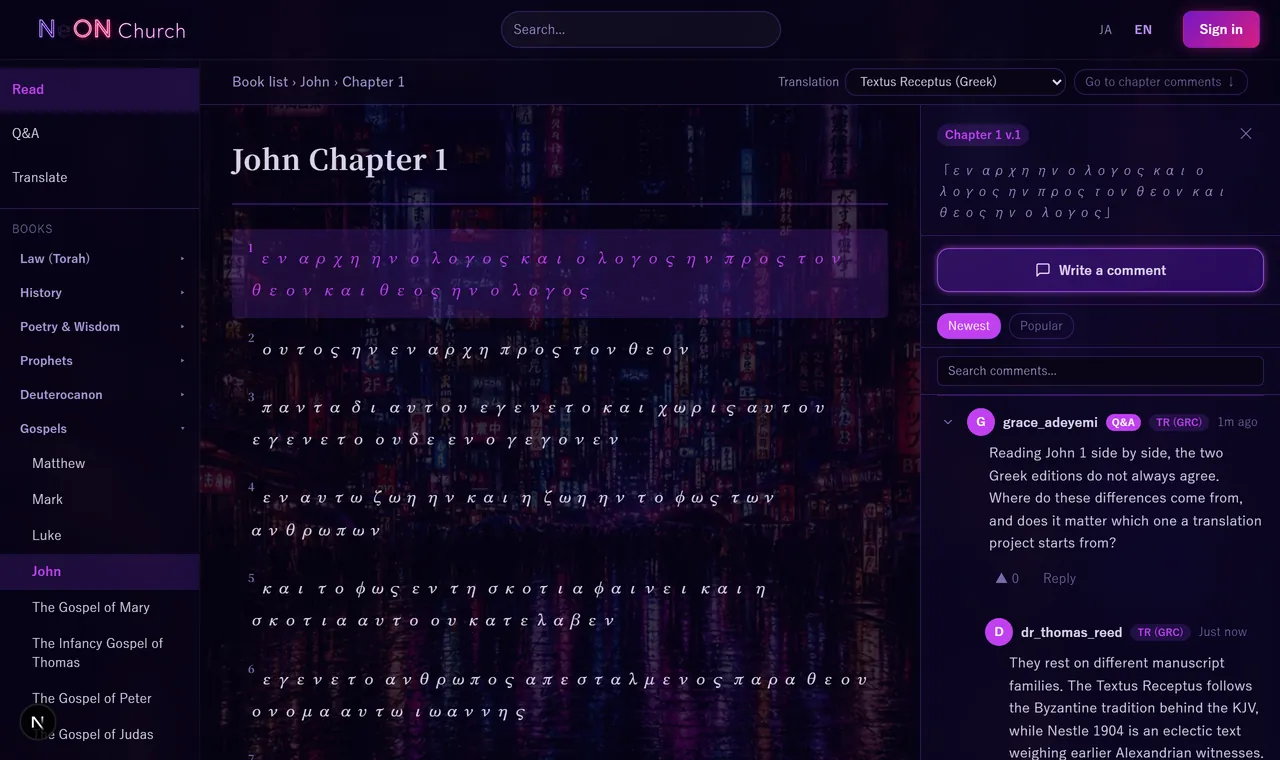
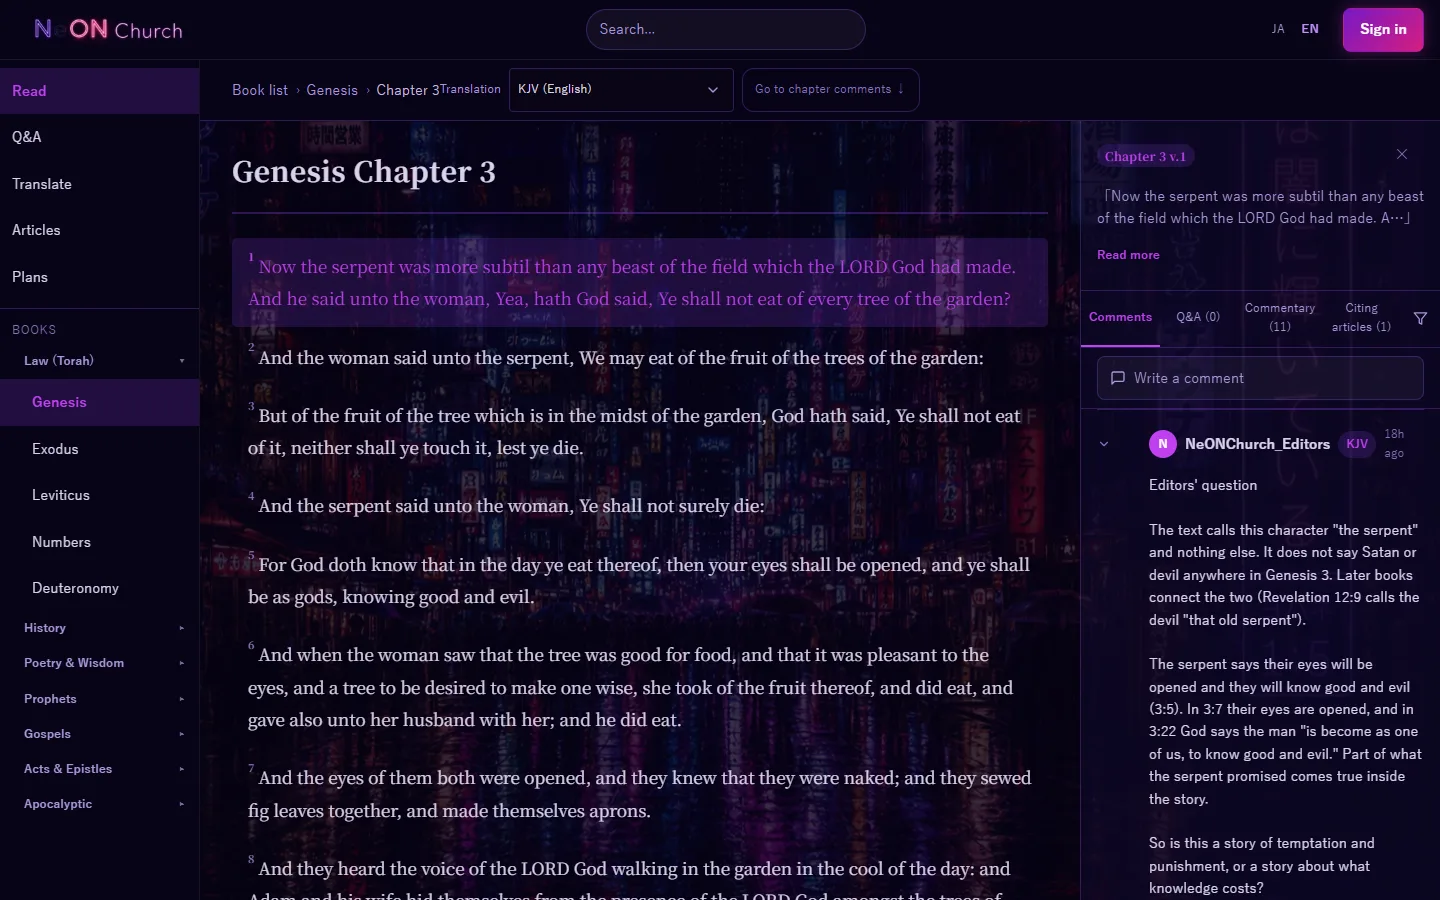
docs: README を公開版の内容に更新し、英語版のスクリーンショットに差し替える
- 収録書・機能・運営の投稿(AI 支援の開示)・問い合わせ先を書き足す
- 本番の英語画面から 6 枚(表紙・読書・記事・プラン・Q&A・翻訳)を撮り直す
- 運用手順と License の日本語を英語にそろえる

Changed region(s): [[0.0, 0.0, 1.0, 1.0], [0.4062, 0.0, 0.5938, 0.0908], [0.5312, 0.5145, 0.5938, 0.5447]]

diff --git a/README.md b/README.md
@@ -21,39 +21,83 @@
 
 ---
 
-NeON Church reimagines Christianity not as a single fixed authority, but as an open field where multiple texts, interpretations, histories, and fragments connect. It draws on Kanzo Uchimura's Non-Church Christianity and a "database-like" reading of faith after postmodernism, shedding light on texts placed outside the canon and interpretations long marginalized. Every text is treated as equal — no second-class scriptures. Here you can read, annotate, discuss, and collaboratively translate biblical texts (canon, Apocrypha, and Pseudepigrapha) together.
+> **Public beta.** The site is open to everyone and still changing. Feedback is very welcome — see [Contact & feedback](#contact--feedback).
+
+NeON Church reimagines Christianity not as a single fixed authority, but as an open field where multiple texts, interpretations, histories, and fragments connect. It draws on Kanzo Uchimura's Non-Church Christianity and a "database-like" reading of faith after postmodernism, shedding light on texts placed outside the canon and interpretations long marginalized. Every text is treated as equal — no second-class scriptures. Here you can read, annotate, discuss, and collaboratively translate biblical texts (canon, deuterocanon, Apocrypha, and Pseudepigrapha) together.
+
+It is not a church organization or a devotional service. It is an experiment in reading together.
 
 <div align="center">
-<img src="docs/assets/screenshot-read.webp" alt="Reading view with the comment panel open" width="860" />
-<p><sub>Selecting a verse opens the comment panel — John 1 in the Textus Receptus (Greek)</sub></p>
+<img src="docs/assets/screenshot-read.webp" alt="Reading Genesis 3 in the KJV with the comment panel open" width="860" />
+<p><sub>Selecting a verse opens its discussion — Genesis 3:1 in the KJV, with the editors' question and readings</sub></p>
 </div>
 
 <table>
 <tr>
-<td width="50%"><img src="docs/assets/screenshot-qa.webp" alt="Q&A board" /></td>
-<td width="50%"><img src="docs/assets/screenshot-translation.webp" alt="Translation project" /></td>
+<td width="50%"><img src="docs/assets/screenshot-home.webp" alt="Home page" /></td>
+<td width="50%"><img src="docs/assets/screenshot-article.webp" alt="An article quoting Jude and 1 Enoch" /></td>
 </tr>
 <tr>
-<td align="center"><sub>Q&A — tabs for unanswered / answered</sub></td>
-<td align="center"><sub>A collaborative translation project</sub></td>
+<td align="center"><sub>Home — start reading without an account</sub></td>
+<td align="center"><sub>Articles quote passages directly — here Jude 1:14–15 next to 1 Enoch 1:9</sub></td>
+</tr>
+<tr>
+<td width="50%"><img src="docs/assets/screenshot-plan.webp" alt="A reading plan" /></td>
+<td width="50%"><img src="docs/assets/screenshot-qa.webp" alt="Q&A board" /></td>
+</tr>
+<tr>
+<td align="center"><sub>Reading plans that cross from Genesis into 1 Enoch</sub></td>
+<td align="center"><sub>Q&A — unresolved / resolved tabs</sub></td>
+</tr>
+<tr>
+<td colspan="2" align="center"><img src="docs/assets/screenshot-translation.webp" alt="Translation project" width="50%" /></td>
+</tr>
+<tr>
+<td colspan="2" align="center"><sub>A collaborative translation project — 1 Enoch into Japanese, verse by verse</sub></td>
 </tr>
 </table>
 
-> The interface ships in both English and Japanese — switch with the JA / EN toggle in the header.
+> The interface is bilingual. It opens in English; switch with the JA / EN toggle in the header.
+
+## What's in the library
+
+| Group | Examples | Editions |
+|---|---|---|
+| Hebrew Bible / Old Testament | Genesis – Malachi | KJV, 口語訳 (Japanese), 文語訳 (classical Japanese), Hebrew (WLC), Greek (LXX) |
+| New Testament | Matthew – Revelation | KJV, 口語訳, 文語訳, Greek (Textus Receptus; Nestle 1904 for the Gospels) |
+| Deuterocanon | Tobit, Judith, Wisdom, Sirach, Baruch, 1–4 Maccabees, 1 Esdras, Susanna, … | Brenton's English translation of the Greek |
+| Other early texts | 1 Enoch, the Gospels of Thomas, Mary, Peter, Judas, Philip, Truth, Q, the Infancy Gospels, the Life of Adam and Eve, … | Public-domain English translations (R. H. Charles, Mark M. Mattison, and others) |
+| Commentaries | Calvin, Rashi, Thomas Aquinas's *Catena Aurea*, church fathers (Augustine, Origen, Irenaeus, Chrysostom, …), Uchimura Kanzō | As published (public domain) |
+
+Sources and licenses for every text are listed on the site at [/licenses](https://neon-church.com/licenses).
 
 ## Features
 
-- **Scripture reading** — Hierarchical navigation: book → chapter → verse.
+- **Scripture reading** — Book → chapter → verse, with an edition switcher on every chapter so you can compare translations and source texts.
+- **Commentaries** — Read classic commentaries chapter by chapter, linked back to the verses they discuss.
 - **Comments** — Post on a verse, a chapter, or a whole book. Threaded replies, upvotes, editing, deletion, and tagging.
-- **Q&A** — Questions and answers live in their own app (`backend/qa/`), separate from comments. Ask, answer, and mark a best answer; the list is split into unanswered / answered tabs.
-- **Articles** — Write essays on a theme, citing passages inline with `[[matthew 6:16-18]]` marks. Draft / unlisted / public, with topics and their own comment threads.
-- **Reading plans** — Build a plan of N days, assign chapters to each day, and let readers subscribe and track their progress.
-- **Collaborative translation** — Start a translation project and assign translators verse by verse.
+- **Q&A** — Questions and answers live in their own app (`backend/qa/`), separate from comments. Ask, answer, and mark a best answer; the list is split into unresolved / resolved tabs.
+- **Articles** — Write essays that cite passages inline (`[[matthew 6:16-18]]`) or quote them as blocks (`{{john 1:1-5|KJV}}`), including commentary sections. Public or private, with topics and their own comment threads.
+- **Reading plans** — Build a plan of up to 365 days, mixing Bible chapters, other texts and commentary chapters; readers subscribe and track their progress chapter by chapter.
+- **Collaborative translation** — Start a translation project and work verse by verse, with review and discussion.
 - **Full-text search** — Searches across verse text, comment bodies, and book names (trigram indexes on Postgres).
 - **Favorites** — Add verses, chapters, books, comments, and translation projects to your favorites; browse them from your profile.
-- **Notifications** — Get notified when someone replies to your comment, with an unread badge.
-- **Reading progress** — Remembers the last verse you read so you can pick up where you left off.
-- **Profiles** — Avatar, bio, comment history, and favorites. Other users' profiles are public too.
+- **Notifications** — Get notified about replies, mentions, and answers, with an unread badge.
+- **Reading progress** — Remembers where you left off.
+- **Profiles** — Bio, comment history, and (optionally public) favorites.
+
+## About the seeded content
+
+A new community starts empty, so the first articles, reading plans, discussion prompts, Q&A and translation projects were drafted by the site team **with AI assistance** and checked against the source texts. They are posted from three clearly named accounts — `NeONChurch`, `NeONChurch_Editors`, and `NeONChurch_Guides` — whose profiles say so. They are there to give early visitors something to respond to, not to imitate real users. The text lives in [`backend/common/launch_content/`](backend/common/launch_content/); corrections are welcome.
+
+## Contact & feedback
+
+| What | Where it goes |
+|---|---|
+| Feedback, bug reports, feature requests, privacy requests | The form at [neon-church.com/feedback](https://neon-church.com/feedback) — no account needed. Sent by email to the site team. |
+| Email | [contact@neon-church.com](mailto:contact@neon-church.com) |
+| Bugs and ideas in public | [GitHub Issues](https://github.com/yuki-matsuno-525/NeON-Church/issues) |
+| A post that breaks the [community guidelines](https://neon-church.com/guidelines) | The **Report** menu on that post. Reports go to the moderators' admin queue. |
 
 ## Tech stack
 
@@ -78,7 +122,7 @@ NeON Church reimagines Christianity not as a single fixed authority, but as an o
 | Uptime monitoring | Better Stack |
 | CI/CD | GitHub Actions |
 
-正式公開、ロールバック、バックアップ復元確認は [release runbook](docs/release-runbook.md) を参照してください。
+For launch, rollback and backup-restore procedures, see the [release runbook](docs/release-runbook.md) (in Japanese).
 
 ## Quick start
 
@@ -336,6 +380,8 @@ NeON-Church/
 │   ├── notifications/   # Notifications
 │   ├── reading_progress/# Reading progress
 │   ├── translations/    # Collaborative translation projects
+│   ├── commentary/      # Commentaries (works, chapters, sections, links to verses)
+│   ├── common/          # Shared pieces: language, wipe, seed commands, launch content
 │   ├── users/           # Auth and profiles
 │   ├── config/          # Django settings and URL routing
 │   └── tests/           # Test suite
@@ -368,4 +414,4 @@ NeON-Church/
 
 ## License
 
-ソースコードは [MIT License](LICENSE)。収録している聖書本文などのテキストデータは、それぞれの出典のライセンスに従います（一覧はサイトの /licenses）。
+The source code is under the [MIT License](LICENSE). The texts in the library (scripture, translations, commentaries) follow the licenses of their sources — see [/licenses](https://neon-church.com/licenses) on the site.
